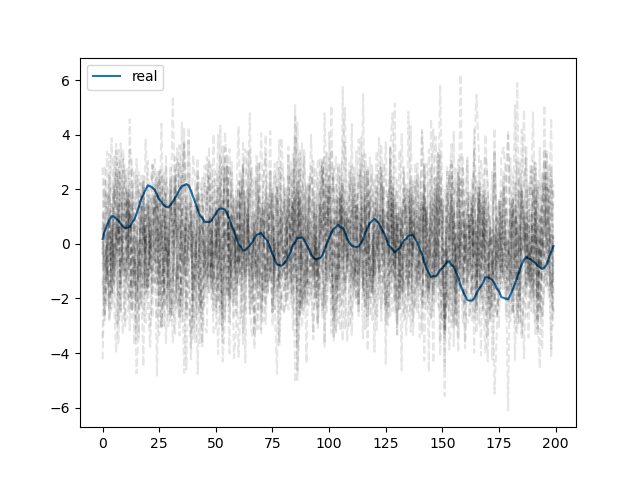
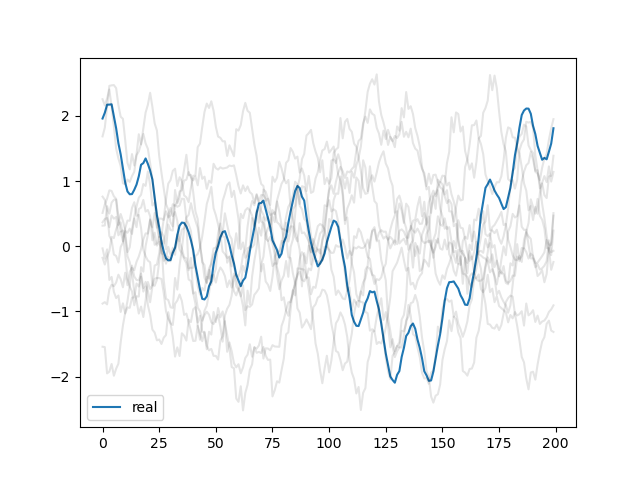
large backbone

diff --git a/src/models/backbone.py b/src/models/backbone.py
@@ -1,56 +1,36 @@
 import torch
 from torch import nn
-import math
-
-
-class TimeEncoding(nn.Module):
-    def __init__(self, d_model: int, max_time: int, use_time_axis: bool = True):
-        super().__init__()
-
-        # Learnable Embedding matrix to map time steps to embeddings
-        self.embedding = nn.Embedding(
-            num_embeddings=max_time, embedding_dim=d_model, max_norm=math.sqrt(d_model)
-        )  # (max_time, d_emb)
-        self.use_time_axis = use_time_axis
-
-    def forward(
-        self, x: torch.Tensor, timesteps: torch.LongTensor, use_time_axis: bool = True
-    ) -> torch.Tensor:
-        """Adds a time encoding to the tensor x.
-
-        Args:
-            x (torch.Tensor): Tensor of shape (batch_size, max_len, d_emb) to which the time encoding should be added
-            timesteps (torch.LongTensor): Tensor of shape (batch_size,) containing the current timestep for each sample in the batch
-
-        Returns:
-            torch.Tensor: Tensor with an additional time encoding
-        """
-        t_emb = self.embedding(timesteps)  # (batch_size, d_model)
-        if use_time_axis:
-            t_emb = t_emb.unsqueeze(1)  # (batch_size, 1, d_model)
-        assert isinstance(t_emb, torch.Tensor)
-        return x + t_emb
-
+from torchvision.ops import MLP
+from .embedding import GaussianFourierProjection
 
 class MLPBackbone(nn.Module):
-    def __init__(self, dim: int, timesteps: int, hidden_size: int, T: int) -> None:
+    def __init__(
+        self, dim: int, timesteps: int, hidden_size: int, T: int, num_layers: int = 10
+    ) -> None:
         super(MLPBackbone, self).__init__()
-        self.pe = TimeEncoding(dim, T)
-        self.net = nn.Sequential(
-            nn.Linear(dim * timesteps, hidden_size),
-            nn.ReLU(),
-            nn.Linear(hidden_size, hidden_size),
-            nn.ReLU(),
-            nn.Linear(hidden_size, hidden_size),
-            nn.ReLU(),
-            nn.Linear(hidden_size, hidden_size),
-            nn.ReLU(),
-            nn.Linear(hidden_size, hidden_size),
-            nn.ReLU(),
-            nn.Linear(hidden_size, dim * timesteps),
+        self.embedder = nn.Linear(dim * timesteps, hidden_size)
+        self.unembedder = nn.Linear(hidden_size, dim * timesteps)
+        self.pe = GaussianFourierProjection(hidden_size)
+        self.net = nn.ModuleList(  # type: ignore
+            [
+                MLP(
+                    in_channels=hidden_size,
+                    hidden_channels=[1024, hidden_size],
+                    # dropout=0.1,
+                )
+                for _ in range(num_layers)
+            ]
         )
 
-    def forward(self, x_noisy, t):
-        x = self.pe(x_noisy, t)
-        x = self.net(x.flatten(1))
-        return self.net(x).reshape(x_noisy.shape)
+    def forward(self, x_noisy, t, conditions=None):
+        
+        x = self.embedder(x_noisy.flatten(1))
+        x = self.pe(x, t, use_time_axis=False)
+        for layer in self.net:
+            x = x + layer(x)
+        x = self.unembedder(x).reshape(x_noisy.shape)
+        return x
+    
+    
+# class CNNBackbone(nn.Module):
+    

diff --git a/tests/test_generative.py b/tests/test_generative.py
@@ -9,12 +9,12 @@ device = "cuda" if torch.cuda.is_available() else "cpu"
 
 local_name = Path(__file__).name.split('.')[0]
 
-T = 200
+T = 1000
 min_beta = 1e-4
 max_beta = 2e-2
-hidden_size = 128
-epochs = 500
-train_dl, test_dl = syntheic_sine(2000)
+hidden_size = 256
+epochs = 1000
+train_dl, test_dl = syntheic_sine()
 
 batch = next(iter(train_dl))
 input_ts, input_dim = batch["observed_data"].shape[1], batch["observed_data"].shape[2]
@@ -25,22 +25,32 @@ diff = diffusion.DDPM(T=T, min_beta=min_beta, max_beta=max_beta, device=device)
 bb = backbone.MLPBackbone(
     dim=input_dim, timesteps=input_ts, hidden_size=hidden_size, T=T
 ).to(device)
+print('\n')
+print("MODEL PARAM:")
+print(sum([torch.numel(p) for p in bb.parameters()]))
+print('\n')
 trainer = Trainer(
     diffusion=diff,
     backbone=bb,
     optimizer=torch.optim.Adam(bb.parameters()),
     device=device,
     epochs=epochs,
-    train_loss_fn=torch.nn.L1Loss(reduction='sum'),
+    train_loss_fn=torch.nn.MSELoss(reduction='mean'),
 )
 trainer.train(train_dl)
-y_pred, y_real = trainer.test(test_dl, n_sample=20)
+y_pred, y_real = trainer.test(train_dl, n_sample=10)
+print(y_pred.shape)
+print(y_real.shape)
 
 sample_pred = y_pred[0,:,0,:].cpu().numpy()
 sample_real = y_real[0,:,0].cpu().numpy()
 
-fig, ax = plt.subplots()
-ax.plot(sample_real, label='real')
-ax.plot(sample_pred, ls='--', c='black', alpha = 0.1)
-ax.legend()
+fig, ax = plt.subplots(2,2)
+ax = ax.flatten()
+ax[0].plot(sample_real, label='real')
+ax[0].legend()
+for i in range(1, 4):
+    ax[i].plot(sample_pred[...,i], c='black', alpha = 0.75, label='generated')
+    ax[i].legend()
+fig.tight_layout()
 fig.savefig(f'assets/{local_name}.png')

diff --git a/src/models/embedding.py b/src/models/embedding.py
@@ -1,0 +1,35 @@
+import torch
+from torch import nn
+
+
+class GaussianFourierProjection(nn.Module):
+    """Gaussian random features for encoding time steps.
+    Courtesy of https://colab.research.google.com/drive/120kYYBOVa1i0TD85RjlEkFjaWDxSFUx3?usp=sharing#scrollTo=YyQtV7155Nht
+    """
+
+    def __init__(self, d_model: int, scale: float = 30.0):
+        super().__init__()
+        # Randomly sample weights during initialization. These weights are fixed
+        # during optimization and are not trainable.
+        self.d_model = d_model
+        self.W = nn.Parameter(
+            torch.randn((d_model + 1) // 2) * scale, requires_grad=False
+        )
+
+        self.dense = nn.Linear(d_model, d_model)
+
+    def forward(
+        self, x: torch.Tensor, timesteps: torch.Tensor, use_time_axis: bool = True
+    ) -> torch.Tensor:
+        time_proj = timesteps[:, None] * self.W[None, :] * 2 * torch.pi
+        embeddings = torch.cat([torch.sin(time_proj), torch.cos(time_proj)], dim=-1)
+
+        # Slice to get exactly d_model
+        t_emb = embeddings[:, : self.d_model]  # (batch_size, d_model)
+
+        if use_time_axis:
+            t_emb = t_emb.unsqueeze(1)
+
+        projected_emb: torch.Tensor = self.dense(t_emb)
+
+        return x + projected_emb

diff --git a/src/datamodule/dataset.py b/src/datamodule/dataset.py
@@ -6,7 +6,7 @@ from src.datamodule.dataclass import TimeSeries
 from sklearn.model_selection import train_test_split
 
 # toy dataset
-def syntheic_sine(t_steps=1000, batch_size=128):
+def syntheic_sine(t_steps=2000, batch_size=128):
     ti = np.linspace(0, 20 * np.pi, t_steps)
     period_t_steps = int(t_steps / 10)
     tp_train = torch.linspace(0, 4 * np.pi, period_t_steps * 2)
@@ -35,7 +35,7 @@ def syntheic_sine(t_steps=1000, batch_size=128):
         "observed_tp": tp_train[:period_t_steps].unsqueeze(0).unsqueeze(-1),
         "tp_to_predict": tp_train[period_t_steps:].unsqueeze(0).unsqueeze(-1),
     }
-    df_train, df_test = train_test_split(df, test_size=0.5, shuffle=False)
+    df_train, df_test = train_test_split(df, test_size=0.2, shuffle=False)
     train_ds = TimeSeries(df_train, **CONFIG)
     test_ds = TimeSeries(df_test, **CONFIG)
     train_dl = DataLoader(train_ds, batch_size=batch_size, shuffle=True)

diff --git a/src/models/diffusion.py b/src/models/diffusion.py
@@ -1,5 +1,5 @@
 import torch
-from src.schedules.exponential import exponential_schedule
+from src.schedules.collection import exponential_schedule
 
 
 class DDPM(object):
@@ -24,8 +24,11 @@ class DDPM(object):
             t_tensor = torch.tensor(t, device=x.device).repeat(x.shape[0])
             noise_pred = backbone(x, t_tensor)
             mu_pred = (
-                x - (1 - self.alphas[t]) / (torch.sqrt(self.alpha_bars[t])) * noise_pred
-            )
+                x
+                - (1 - self.alphas[t])
+                / torch.sqrt(1 - self.alpha_bars[t])
+                * noise_pred
+            ) / torch.sqrt(self.alphas[t])
             if t == 0:
                 sigma = 0
             else:

diff --git a/src/train.py b/src/train.py
@@ -1,9 +1,16 @@
 import torch
 import os
+import matplotlib.pyplot as plt
 
 # from torch.utils.tensorboard import SummaryWriter
 # from src.models.diffusion import DDPM
 
+def loss_func(inputs, targets, loss_scale):
+    err = (inputs - targets) **2
+    err = torch.sum(err, dim=1)
+    err = err * loss_scale
+    return err.mean()
+    
 
 class EarlyStopping:
     """Early stops the training if validation loss doesn't improve after a given patience."""

diff --git a/README.md b/README.md
@@ -1,1 +1,6 @@
 # FrequencyDiffusion
+
+TODO:
+- backbone
+- condition
+- frequency
